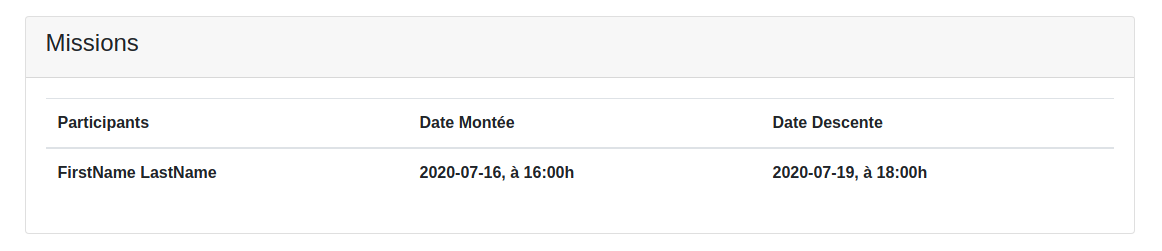
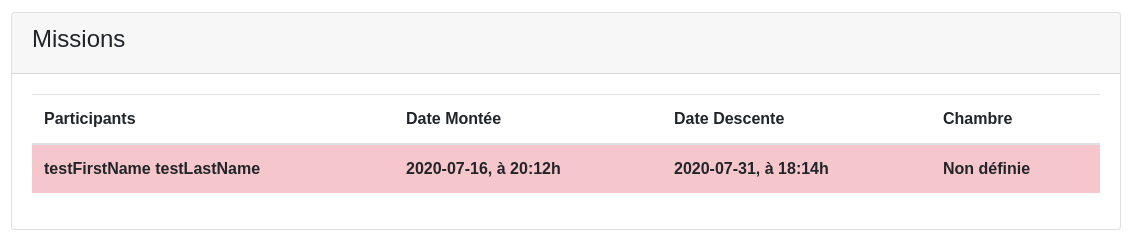
Readme

diff --git a/README.md b/README.md
@@ -181,6 +181,18 @@ L'utilisateur a ici la possibilité de visionner les missions qu'il a planifié,
 Les missions ajoutées s'affichent ensuite dans le profil de l'utilisateur :
 ![Mission List Screen Shot][missionList-screenshot]
 
+<br/>
+
+L'Administrateur a la possibilité de definir une chambre pour les missions :
+![Admin Chambre Screen Shot][adminChambre-screenshot]
+
+<br/>
+
+Les missions dont les chambres ont étés attribuées sont affichées en vert dans la liste des missions.
+![Mission Valide Screen Shot][missionChambre-screenshot]
+
+
+
 
 <!-- MARKDOWN LINKS & IMAGES -->
 [profil-screenshot]: images/profil.png
@@ -189,3 +201,5 @@ Les missions ajoutées s'affichent ensuite dans le profil de l'utilisateur :
 [emplacement-screenshot]: images/emplacement.png
 [addMission-screenshot]: images/addMission.png
 [missionList-screenshot]: images/missionList.png
+[adminChambre-screenshot]: images/adminChambre.png
+[missionChambre-screenshot]: images/missionChambre.png
